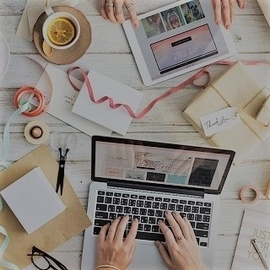
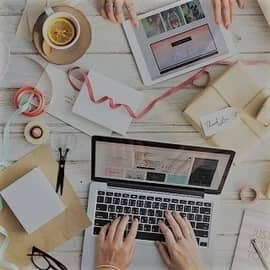
'Img' compressées

diff --git a/style.css b/style.css
@@ -965,7 +965,7 @@ h4 {
 }
 
 .bg-presentation {
-  background-image: url("img/image-de-presentation.jpg");
+  background-image: url("img/image_de_presentation.jpg");
 }
 
 @media (max-width: 1024px) {
